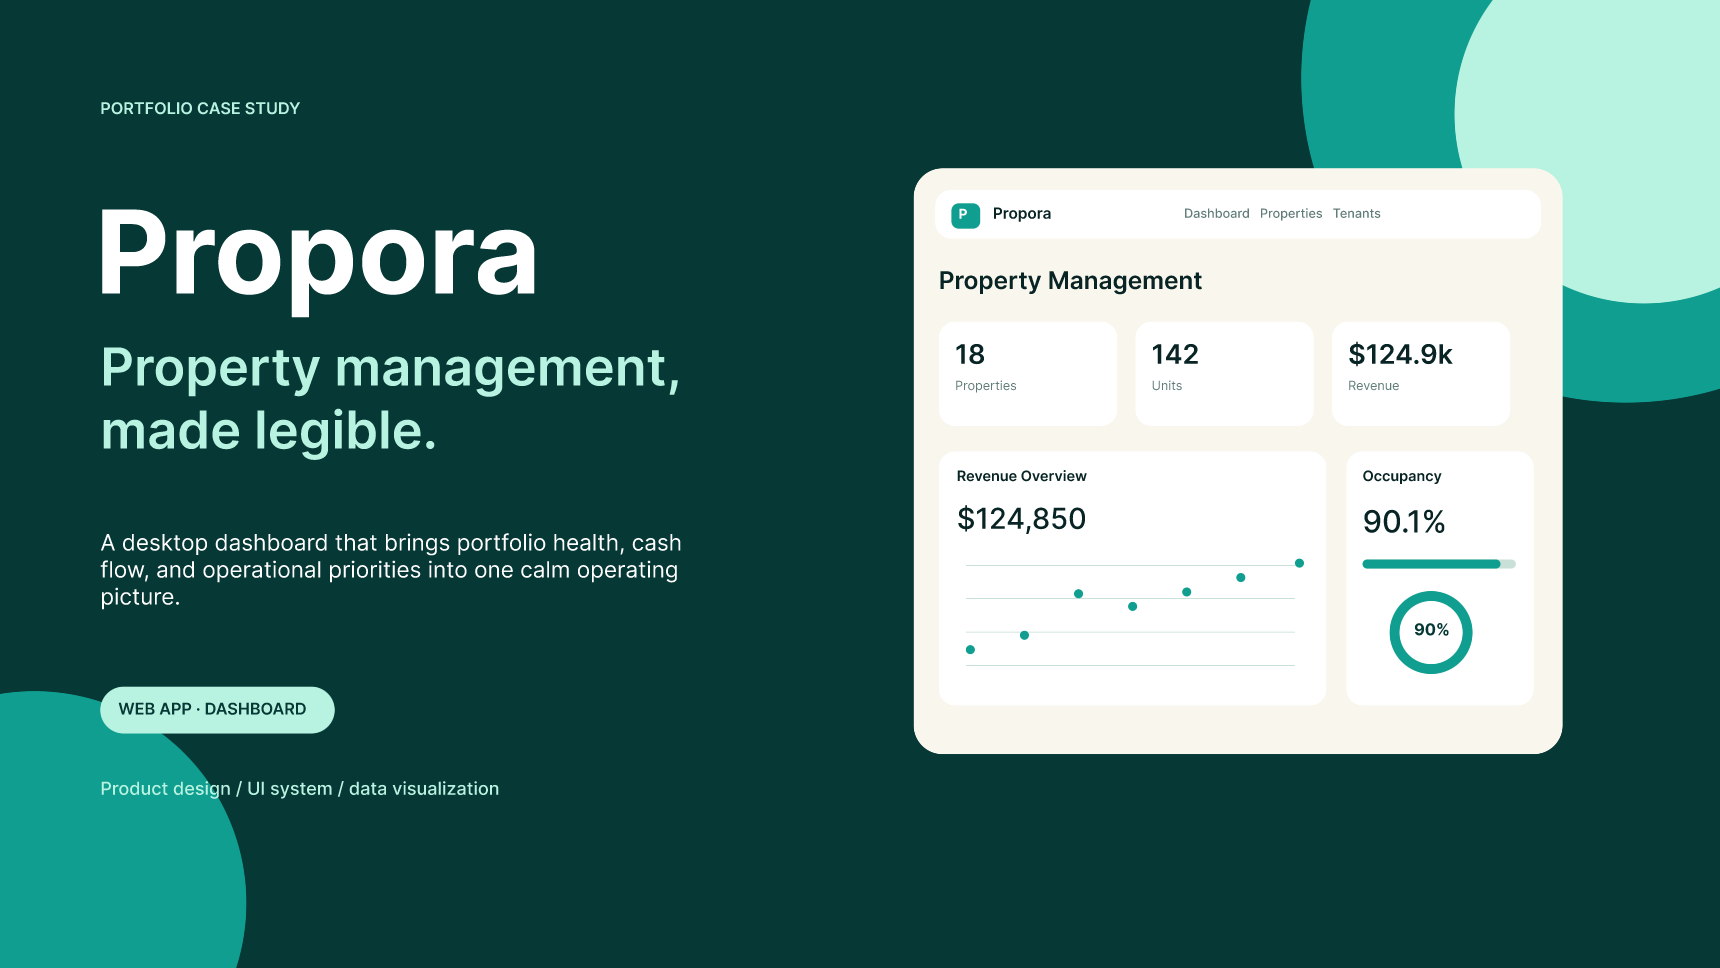
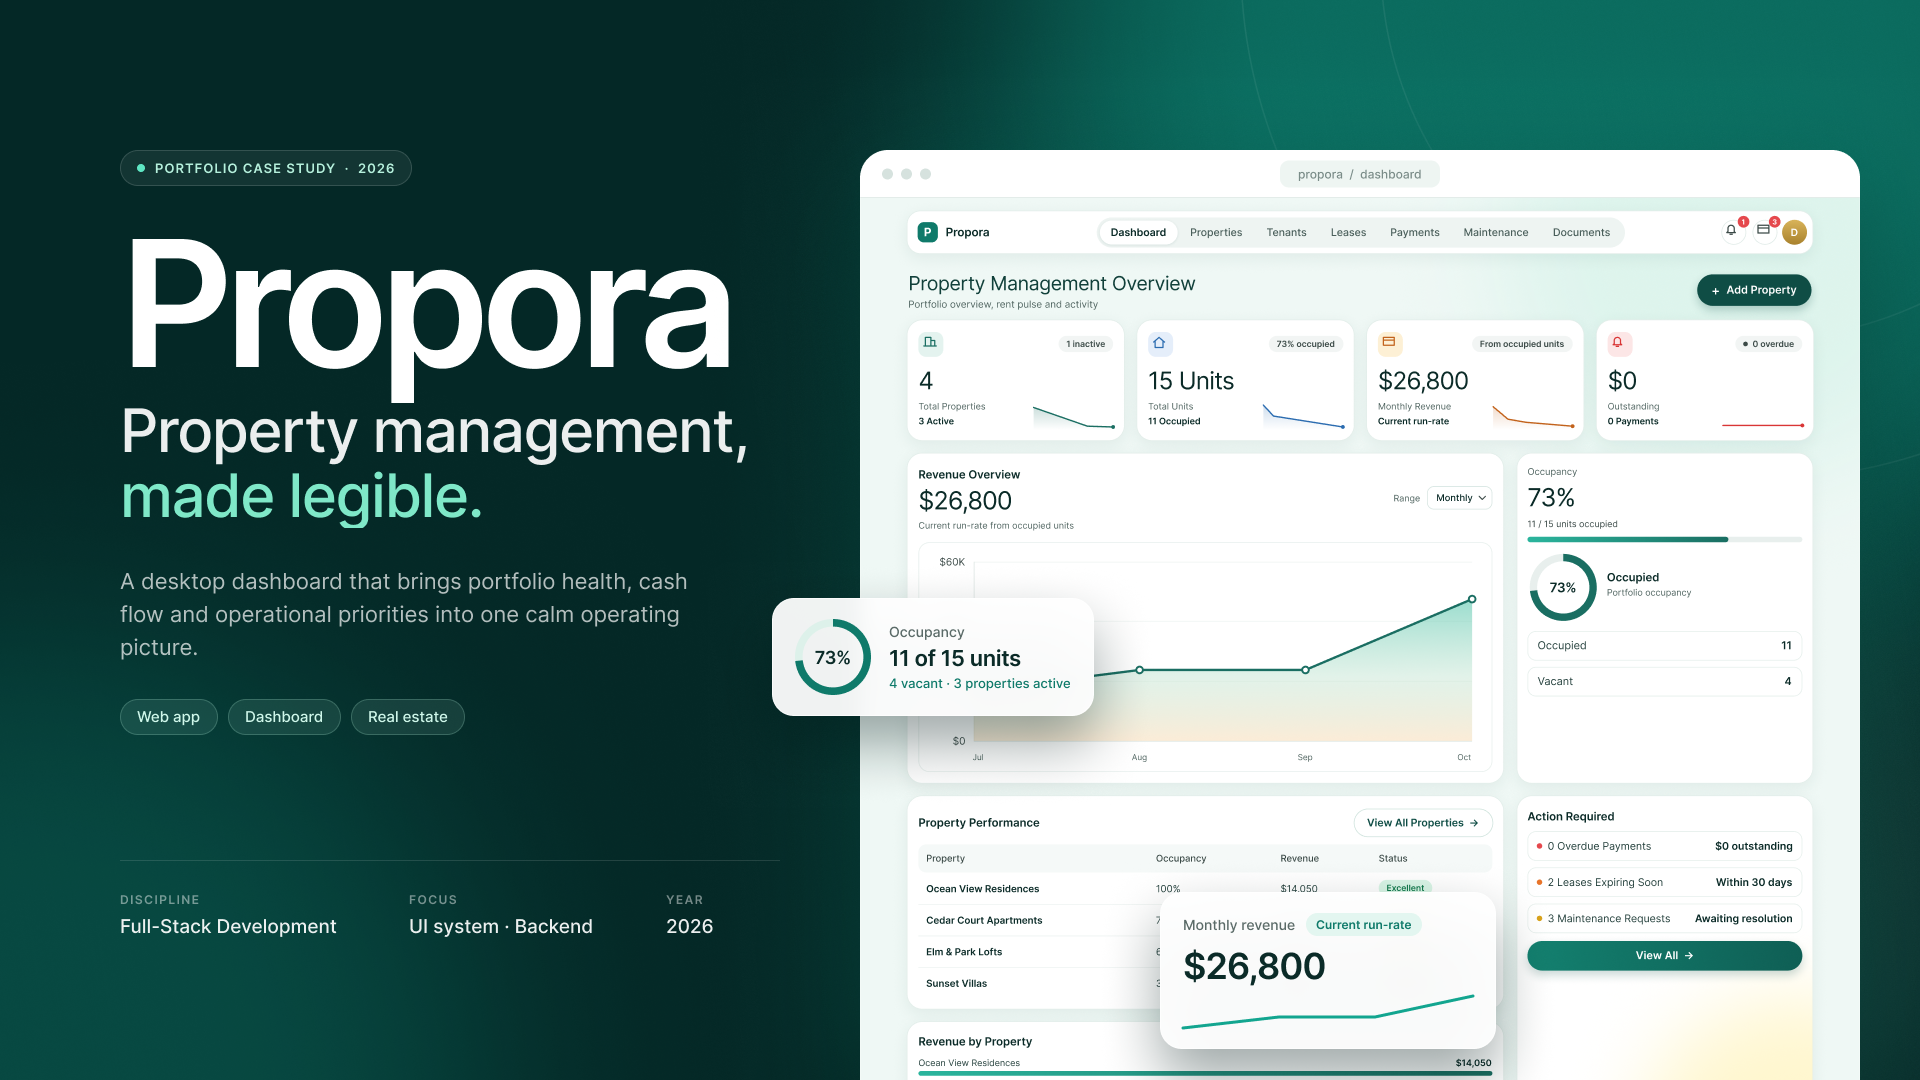
chore: Update README.md and slide image

diff --git a/README.md b/README.md
@@ -2,112 +2,71 @@
 
 # Propora
 
-### Property management, made legible.
+**Property management, made legible.**
 
-A desktop dashboard that brings portfolio health, cash flow, and operational
-priorities into one calm operating picture.
+The web app for Propora: one calm dashboard for properties, tenants, leases, rent, repairs and documents.
 
-![React](https://img.shields.io/badge/react-19-0F766E?style=flat-square&logo=react&logoColor=white)
-![TypeScript](https://img.shields.io/badge/typescript-6-0F766E?style=flat-square&logo=typescript&logoColor=white)
-![Vite](https://img.shields.io/badge/vite-8-0F766E?style=flat-square&logo=vite&logoColor=white)
-![Tailwind CSS](https://img.shields.io/badge/tailwind-4-0F766E?style=flat-square&logo=tailwindcss&logoColor=white)
-![Zustand](https://img.shields.io/badge/zustand-5-0F766E?style=flat-square)
-![React Router](https://img.shields.io/badge/react_router-7-0F766E?style=flat-square&logo=reactrouter&logoColor=white)
+![React](https://img.shields.io/badge/React-19-0F766E?style=flat-square&logo=react&logoColor=white)
+![TypeScript](https://img.shields.io/badge/TypeScript-6-0F766E?style=flat-square&logo=typescript&logoColor=white)
+![Vite](https://img.shields.io/badge/Vite-8-0F766E?style=flat-square&logo=vite&logoColor=white)
+![Tailwind CSS](https://img.shields.io/badge/Tailwind_CSS-4-0F766E?style=flat-square&logo=tailwindcss&logoColor=white)
+![Zustand](https://img.shields.io/badge/Zustand-5-0F766E?style=flat-square)
 
-**`WEB APP · DASHBOARD`**
-
-*Product design / UI system / data visualization*
+**[📖 Full documentation →](../docs/README.md)**
 
 </div>
+
 <img src="public/slide.png" alt="Propora — property management, made legible" width="100%" />
 
----
+## About
 
-## The idea
+A React single-page app that talks to the [Propora API](https://github.com/m0hkx/Propora-Backend) (Express + MongoDB). Every screen reads and writes real data through the API, and you stay signed in with a session cookie.
 
-Property managers live in spreadsheets: units here, arrears there, maintenance
-requests in someone's inbox. Propora collapses that into a single screen where
-the answer to *"how is my portfolio doing?"* is legible in under five seconds —
-hero KPIs, a revenue pulse, occupancy, and everything that needs attention,
-ranked.
+## Demo account
 
-This repository is a **frontend portfolio case study**: a fully interactive
-product surface running on realistic generated data. There is no backend — every
-flow (filtering, creating, editing, messaging) works end-to-end in memory, which
-keeps the focus where it belongs: product, interaction, and interface craft.
+| Email | Password |
+| --- | --- |
+| `demo@propora.dev` | `Demo1234!` |
 
-## What it does
-
-| Area | Highlights |
-| ---- | ---------- |
-| **Dashboard** | Animated KPI hero cards with sparklines, revenue area chart with hover tooltips, occupancy donut, property performance, action-required triage modal, activity timeline |
-| **Properties** | Portfolio summary cards, status tabs, type filter, sorting, occupancy/revenue per card, image-with-fallback grid, detail views, create flow with image upload preview |
-| **Tenants** | 128-record roster with status tabs, search, sorting, pagination, detail / edit / delete flows, deep links into leases & payments |
-| **Leases** | Status tabs, property filter, sorting, tenant-scoped focus mode via shareable `?tenantId=` URLs |
-| **Payments** | Collection KPIs + collection rate, status/method filters, payment history, record-payment flow with rent auto-fill |
-| **Maintenance** | Work-queue stats, six-axis filtering, sortable table with incremental loading, status transitions with activity history |
-| **Documents** | Library stats, five-axis filtering, flat or grouped-by-property views, view/edit/move/archive/delete, mocked upload zone |
-| **Inbox** | Notification center with mark-read + deep links, two-pane tenant messaging with replies |
-| **Shell** | Client-side routing, global + per-page search, toasts, profile, fully responsive down to 320px with a mobile nav panel |
-
-## Design system
-
-Designed, not decorated — one teal identity carried through every surface:
-
-- **Palette** — Trust Teal `#0F766E` on a mint wash `#F0FDFA`, deep-teal ink `#134E4A` (never black), semantic badge tones for every status
-- **Type** — Plus Jakarta Sans throughout, tabular numerals for metrics so count-ups never jitter
-- **Shape & depth** — 18px cards with mint-tinted borders and teal-tinted shadows, pill actions, ambient gradient background with a faint architectural grid
-- **Motion** — one spring easing for entrances, one crisp ease for feedback; staggered section reveals, animated charts, press states everywhere, fully `prefers-reduced-motion` safe
-- **Voice** — plain verbs, sentence case, toasts that confirm what happened (`Lease L-1030 created`)
-
-## Tech stack
-
-| Layer | Choice |
-| ----- | ------ |
-| UI runtime | React 19 + TypeScript 6 |
-| Build | Vite 8 (`tsc -b && vite build`) |
-| Styling | Tailwind CSS v4 (`@theme` tokens + `@apply` composites) |
-| State | Zustand 5, selector subscriptions |
-| Routing | React Router 7, flat route table |
-| Charts | Hand-rolled SVG (area, donut, sparklines) — no chart dependency |
-| Quality gates | `tsc -b` project references, ESLint flat config |
+The account is created by `npm run seed` in the API.
 
 ## Getting started
 
+Start the [API](https://github.com/m0hkx/Propora-Backend) first, then:
+
 ```bash
-npm install   # install dependencies
-cp .env.example .env # put API url in VITE_API_URL
-npm run dev   # start the dev server with HMR
-npm run lint  # eslint over the repo
-npm run build # type-check, then bundle to dist/
-npm run preview # serve the production build
+npm install
+cp .env.example .env   # set VITE_API_URL=http://localhost:3000
+npm run dev            # http://localhost:5173
 ```
+
+| Command | What it does |
+| --- | --- |
+| `npm run dev` | Start the dev server |
+| `npm run build` | Type-check and build for production |
+| `npm run lint` | Run ESLint |
+| `npm run preview` | Preview the production build |
 
 ## Project structure
 
 ```
 src/
-├── App.tsx            # shell: topbar, routing, page header, create-flows, toasts
-├── main.tsx           # StrictMode entry
-├── index.css          # Tailwind v4 entry + @theme design tokens
-├── components/        # shared primitives (Card, Badge, KpiCard, Modal, charts…)
-├── pages/             # one route per screen; complex ones get feature folders
-├── state/             # single Zustand store (+ tiny re-export barrel)
-├── types/             # domain types, one file per area (+ index.ts barrel)
-├── data/              # static data: countries, phone codes, Inbox seed
-├── lib/               # shared helpers (formatting, lookups, stats, validation)
-└── styles/            # @apply composites + element-level base rules
+├── pages/        one folder per screen, with its modals
+├── components/   shared UI: cards, tables, modals, charts
+├── state/        Zustand store, split into slices
+├── api/          one file per API resource
+├── auth/         session check and protected routes
+├── lib/          small helpers: validation, sorting, formatting
+├── types/        shared TypeScript types
+└── styles/       Tailwind v4 layers and component classes
 ```
 
-Conventions: pages own their filter state and modals; domain data flows top-down
-from the store; type-only imports use `import type`; all display copy lives next
-to the component that renders it.
+## Learn more
 
----
+The [main documentation](../docs/README.md) covers everything else:
 
-<div align="center">
+- [Screenshots](../docs/02-screenshots.md) and [features](../docs/03-features.md)
+- [System design](../docs/04-system-design.md) and [design system](../docs/07-design-system.md)
+- [Full setup guide](../docs/08-getting-started.md)
 
-Built as a portfolio case study in interface craft — every pixel and
-interaction above runs in this repo.
-
-</div>
+**Backend:** [Propora-Backend](https://github.com/m0hkx/Propora-Backend)
